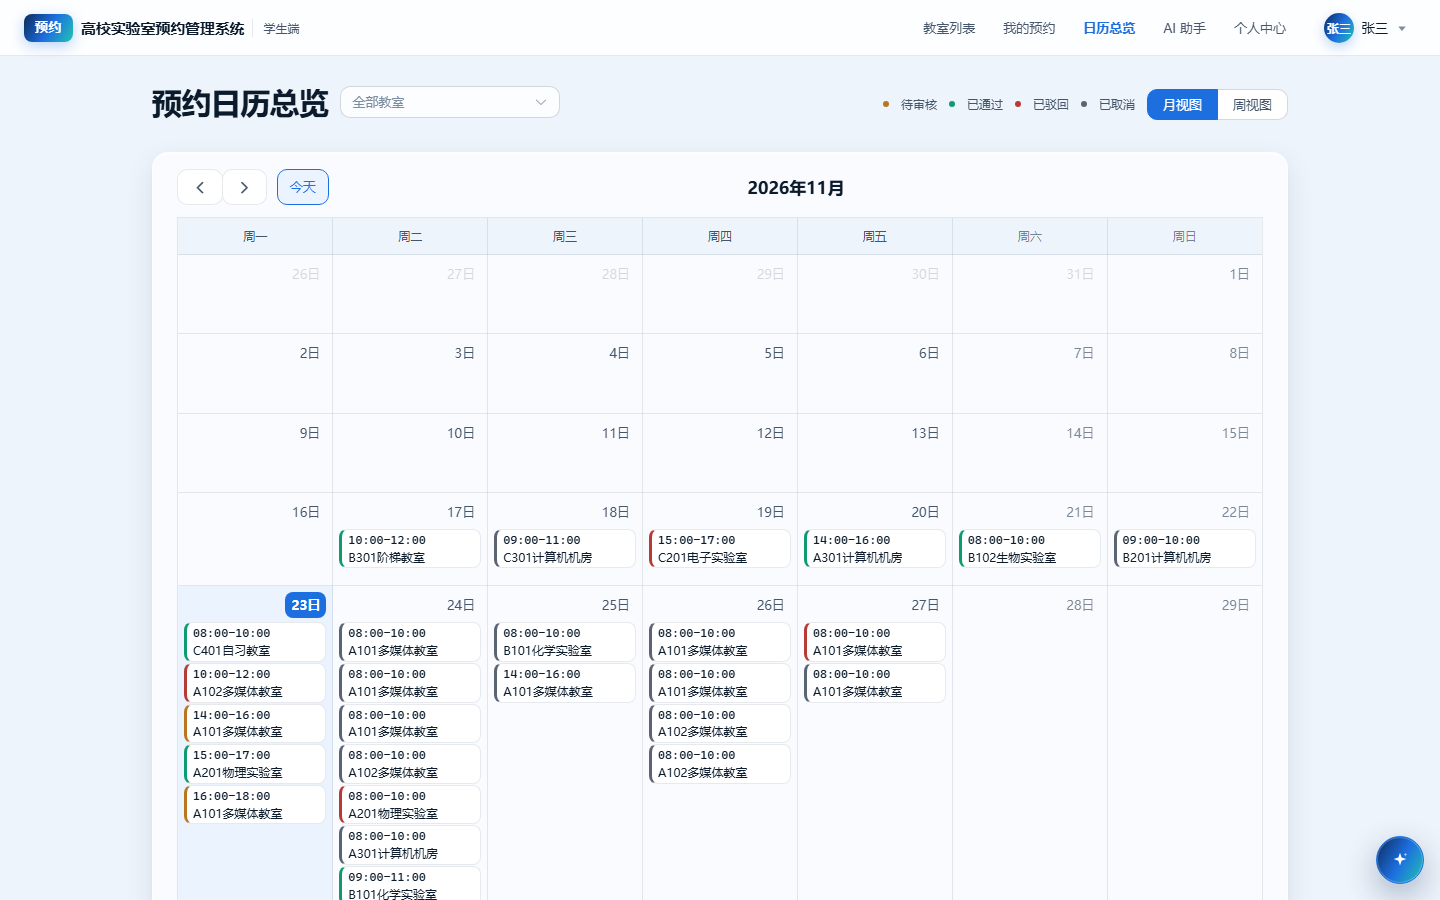
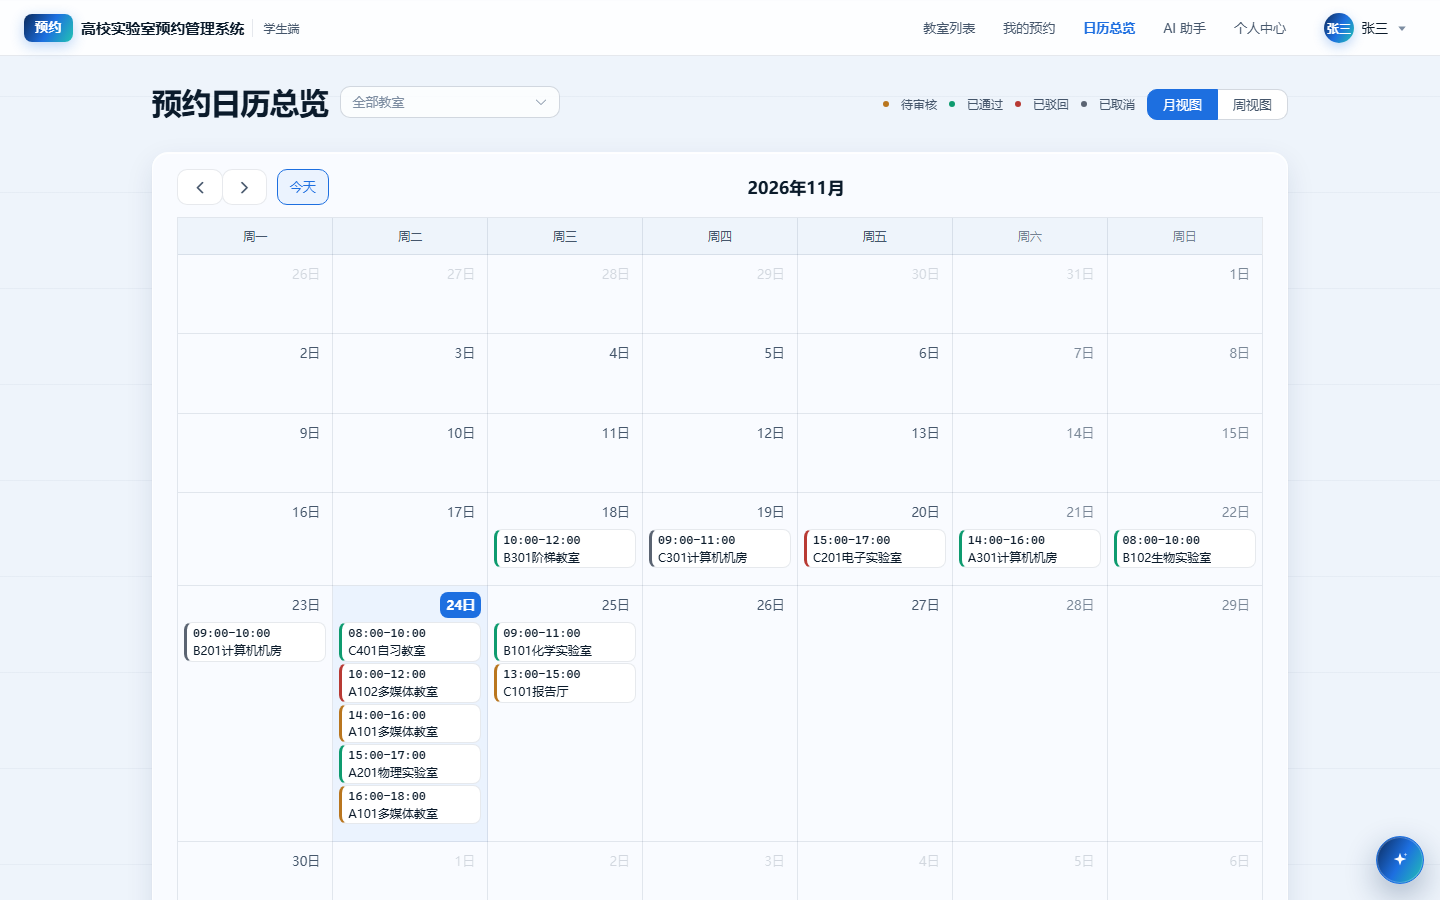
refactor(ui): 留白处补排课表行线底纹（#app 层 1px/96px 纹理）

diff --git a/web/src/assets/main.css b/web/src/assets/main.css
@@ -134,6 +134,8 @@
   --brand-ink: var(--deep);
   --on-brand: rgba(255, 255, 255, 0.78);
   --grid-ink: rgba(255, 255, 255, 0.07);
+  /* 浅色页面上叠加的排课表行线（极淡，只在留白负空间可见） */
+  --paper-rule: rgba(11, 42, 91, 0.04);
 
   /* 键盘焦点环 */
   --ring: 0 0 0 3px rgba(29, 111, 224, 0.18);
@@ -280,6 +282,19 @@ body {
     linear-gradient(165deg, #eaf2ff 0%, #eef3fb 46%, #effaf8 100%);
   background-repeat: no-repeat;
   background-attachment: fixed;
+}
+
+/*
+ * 页面底纹：整页可见的排课表行线（1px / 96px，4% 墨色）。
+ * 只画在 #app 这一层——内容面（卡片/表格/弹窗）自己有不透明底，行线只在留白负空间可见。
+ */
+#app {
+  background-image: repeating-linear-gradient(
+    to bottom,
+    var(--paper-rule) 0 1px,
+    transparent 1px 96px
+  );
+  background-attachment: local;
 }
 
 /* 键盘焦点：天光蓝细环 */

diff --git a/web/src/views/student/StudentLayout.vue b/web/src/views/student/StudentLayout.vue
@@ -255,7 +255,8 @@ async function handleLogout() {
 }
 
 .student-main {
-  background: var(--page);
+  /* 透明：让 #app 的页面底纹（排课表行线）透出，内容面自己有不透明底 */
+  background: transparent;
   padding: 0;
   overflow-y: auto;
 }

diff --git a/CHANGELOG.md b/CHANGELOG.md
@@ -7,6 +7,7 @@
 ## [未发布] - 2026-11
 
 ### 新增
+- **留白处补排课表行线底纹**：此前页面留白只有一层浅蓝极光，大片负空间偏空。现在 `#app` 叠一层极淡排课表行线（`repeating-linear-gradient` 1px / 96px、`--paper-rule: rgba(11,42,91,.04)`），呼应「教室预约＝排课表」的身份；行线只画在 `#app` 这一层，内容面（卡片/表格/弹窗）自带不透明底，纹理**只在留白负空间可见**，不进入任何内容区。为让底纹透出，学生端滚动容器 `.student-main` 由 `--page` 实色改 `transparent`（管理端 `.admin-main` 本就是透明）。`docs/界面设计规范.md` 材质表新增「留白底纹」行并写明「禁止给内容面加纹理」。
 - **交互设计优化（渐进式披露与可负担性）**：按交互设计原则补齐四处——① 教室列表卡片由「整卡可点但键盘不可达」改为整卡 v-clickable（role=button + tabindex=0 + Enter/空格激活 + 简洁 aria-label），移除内部冗余的「查看详情并预约」按钮（改为非交互视觉占位 .card-cta），消除嵌套交互与双 Tab 停靠，与个人中心既有模式对齐；② 卡片渐进式披露：设备说明与备注描述（详情页已含）移出卡片默认态，列表只保留「选择信号」（名称/门牌/状态/类型/楼栋/容量/今日剩余/某日占用），降低扫读负担；③ 教室详情时段刻度尺首屏加常驻提示「点击空白时段，直接带入预约」，点空档回填预约不再只在 hover 时显形；④ 筛选条「日期」改 label「占用日期」，澄清它是「标注某日占用」而非「收窄结果」。E2E 同步（11-classroom-list 卡片字段断言、41-a11y 新增整卡键盘可达用例），并让此前因缺 tabindex 一直未生效的 .room-card:focus-visible 焦点样式真正生效。
 
 - **渐进式披露第二轮：AI 对话页建议折叠 + 列表页「更多筛选」**：延续交互设计原则补齐两处渐进式披露——① AI 对话页欢迎区建议默认只显示 3 条（上下文建议 + 2 条基础建议），点「更多建议」展开全部、「收起建议」收回，避免一屏塞满全部建议；② 五个列表页（学生教室列表、管理端教室/用户/审核/预约记录）的次级筛选条件折叠进「更多筛选」，默认只露主关键词输入，点「更多筛选」展开楼栋/类型/状态/日期范围等次级条件、「收起筛选」收回，降低查询区首屏扫读负担。E2E 新增 `openMoreFilters` 幂等 helper，11/21/22/24 spec 先展开再操作次级筛选。

diff --git a/docs/界面设计规范.md b/docs/界面设计规范.md
@@ -42,6 +42,7 @@
 | 层级 | 做法 |
 | --- | --- |
 | 页面背景 | `body` 四层叠加：左上 30% 天蓝极光、右上 26% 薄荷青光、底部 16% 晨光橙、`linear-gradient(165deg,#eaf2ff,#eef3fb 46%,#effaf8)`；`background-attachment: fixed`，滚动时极光不动 |
+| 留白底纹 | `#app` 叠一层**排课表行线**：`repeating-linear-gradient(to bottom, var(--paper-rule) 0 1px, transparent 1px 96px)`，`--paper-rule: rgba(11,42,91,.04)`。只画在 `#app` 这一层，内容面自带不透明底，行线**只在留白负空间可见**；页面滚动容器（`.student-main`）保持 `transparent` 让底纹透出，禁止给内容面加纹理 |
 | 内容面 | `.surface` / `.search-card` / `.table-band`：`linear-gradient(180deg, rgba(255,255,255,.94), rgba(244,249,255,.86))` + 1px 半透明白边 + 顶部内高光 + 两段阴影（近阴影 + 远期品牌投影 + 下缘负偏移的落地投影） |
 | 顶栏 / 侧栏 / 底 dock | `.glass`：半透明 + `backdrop-filter: blur(18px) saturate(140%)`；`backdrop-filter` **只允许用于这四类容器与弹窗** |
 | 满铺区 | `.hero-band` / TimeBand：`var(--grad)` + 96px 极淡白网格（`--grid-ink: rgba(255,255,255,.045)`）+ 右上径向光环 + 1px 顶部内高光 |
